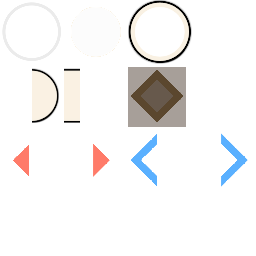
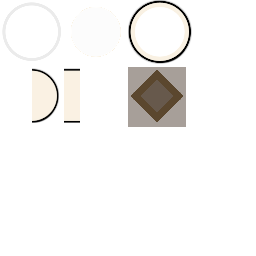
better performance monitoring (like, it's actually accurate this time lol) also change how taiko's left part's colored elements are render

diff --git a/src/Platform/Psp/FrameTimesInfo.cpp b/src/Platform/Psp/FrameTimesInfo.cpp
@@ -1,0 +1,84 @@
+#include "FrameTimesInfo.h"
+
+#include <pspgum.h>
+
+#include "Graphics/Vertex.h"
+
+
+//note: 1ms is 1000 ticks
+void DrawFrameTimesInfo(const FrameTimesInfo &frame_times_info, Vector2<float> pos, float z, float width) {
+    constexpr u64 optimal_fps_ticks = (u64)(1.f/60.f * 1000000.f);
+
+    u64 update_end_time =   frame_times_info.frame_start_draw      - frame_times_info.frame_start;
+    u64 draw_end_time =     frame_times_info.frame_end_draw        - frame_times_info.frame_start;
+    u64 gpu_exec_end_time = frame_times_info.frame_end_gpu_execute - frame_times_info.frame_start;
+    u64 frame_end_time =    frame_times_info.frame_end             - frame_times_info.frame_start;
+
+    u64 u64width = (u64)width;
+    float update_end_relative_x   = (float)(update_end_time*u64width   / optimal_fps_ticks);
+    float draw_end_relative_x     = (float)(draw_end_time*u64width     / optimal_fps_ticks);
+    float gpu_exec_end_relative_x = (float)(gpu_exec_end_time*u64width / optimal_fps_ticks);
+    float frame_end_relative_x    = (float)(frame_end_time*u64width    / optimal_fps_ticks);
+
+
+    Vertex_Color32_XYZ32 *overlay_vertices = (Vertex_Color32_XYZ32 *) sceGuGetMemory(sizeof(Vertex_Color32_XYZ32) * 4 * 4);
+    uint8_t *overlay_indices = (uint8_t *) sceGuGetMemory(sizeof(Vertex_Color32_XYZ32) * 6 * 4);
+
+    //waiting for vsync
+    Vertex_Color32_XYZ32 *wait_rect = (Vertex_Color32_XYZ32 *) sceGuGetMemory(sizeof(Vertex_Color32_XYZ32) * 4);
+    uint8_t *wait_rect_indices = (uint8_t *) sceGuGetMemory(sizeof(uint8_t) * 6);
+    overlay_vertices[0] = {0xFFFF4444, pos.x                     , pos.y     , z}; //top left
+    overlay_vertices[1] = {0xFFFF4444, pos.x+frame_end_relative_x, pos.y     , z}; //top right
+    overlay_vertices[2] = {0xFFFF4444, pos.x                     , pos.y+4, z}; //bottom left
+    overlay_vertices[3] = {0xFFFF4444, pos.x+frame_end_relative_x, pos.y+4, z}; //bottom right
+    overlay_indices[0] = 0;
+    overlay_indices[1] = 1;
+    overlay_indices[2] = 2;
+    overlay_indices[3] = 1;
+    overlay_indices[4] = 3;
+    overlay_indices[5] = 2;
+
+    //gpu execution (orange)
+    overlay_vertices[4] = {0xFF42c2f5, pos.x                        , pos.y     , z}; //top left
+    overlay_vertices[5] = {0xFF42c2f5, pos.x+gpu_exec_end_relative_x, pos.y     , z}; //top right
+    overlay_vertices[6] = {0xFF42c2f5, pos.x                        , pos.y+4, z}; //bottom left
+    overlay_vertices[7] = {0xFF42c2f5, pos.x+gpu_exec_end_relative_x, pos.y+4, z}; //bottom right
+    overlay_indices[6] = 4;
+    overlay_indices[7] = 5;
+    overlay_indices[8] = 6;
+    overlay_indices[9] = 5;
+    overlay_indices[10] = 7;
+    overlay_indices[11] = 6;
+
+    //draw (red)
+    overlay_vertices[8]  = {0xFF4444FF, pos.x                    , pos.y     , z}; //top left
+    overlay_vertices[9]  = {0xFF4444FF, pos.x+draw_end_relative_x, pos.y     , z}; //top right
+    overlay_vertices[10] = {0xFF4444FF, pos.x                    , pos.y+4, z}; //bottom left
+    overlay_vertices[11] = {0xFF4444FF, pos.x+draw_end_relative_x, pos.y+4, z}; //bottom right
+    overlay_indices[12] = 8;
+    overlay_indices[13] = 9;
+    overlay_indices[14] = 10;
+    overlay_indices[15] = 9;
+    overlay_indices[16] = 11;
+    overlay_indices[17] = 10;
+
+    //update (green)
+    overlay_vertices[12] = {0xFF44FF44, pos.x                      , pos.y     , z}; //top left
+    overlay_vertices[13] = {0xFF44FF44, pos.x+update_end_relative_x, pos.y     , z}; //top right
+    overlay_vertices[14] = {0xFF44FF44, pos.x                      , pos.y+4, z}; //bottom left
+    overlay_vertices[15] = {0xFF44FF44, pos.x+update_end_relative_x, pos.y+4, z}; //bottom right
+    overlay_indices[18] = 12;
+    overlay_indices[19] = 13;
+    overlay_indices[20] = 14;
+    overlay_indices[21] = 13;
+    overlay_indices[22] = 15;
+
+    overlay_indices[23] = 14;
+    sceGumDrawArray(GU_TRIANGLES, Vertex_Color32_XYZ32::flags | GU_INDEX_8BIT | GU_TRANSFORM_3D, 6*4, overlay_indices, overlay_vertices);
+
+    //red line
+    Vertex_Color32_XYZ32 *limit_vertices = (Vertex_Color32_XYZ32 *) sceGuGetMemory(sizeof(Vertex_Color32_XYZ32) * 2);
+    limit_vertices[0] = {0xFF0000FF, pos.x + width, pos.y-2, z};
+    limit_vertices[1] = {0xFF0000FF, pos.x + width, pos.y+6, z};
+    sceGumDrawArray(GU_LINES, Vertex_Color32_XYZ32::flags | GU_TRANSFORM_3D, 2, nullptr, limit_vertices);
+}

diff --git a/src/Ruleset/TaikoRuleset/TaikoRulesetPsp.cpp b/src/Ruleset/TaikoRuleset/TaikoRulesetPsp.cpp
@@ -15,6 +15,9 @@
 #include "../../Platform/Psp/Graphics/Texture.h"
 #include "../../Platform/Psp/Graphics/Vertex.h"
 
+//uncomment this to convert the taiko skin to ABGR4444
+//#define TAIKO_SHEET_ABGR4444
+
 #define PLAYFIELD_WIDTH SCREEN_WIDTH
 #define PLAYFIELD_HEIGHT 64.f
 #define PLAYFIELD_ORIGIN_Y ((SCREEN_HEIGHT - PLAYFIELD_HEIGHT)/2.f)
@@ -30,6 +33,12 @@ static RulesetInput s_taiko_inputs_psp[] = {
 };
 static const int s_taiko_input_count = sizeof(s_taiko_inputs_psp) / sizeof(RulesetInput);
 
+static uint32_t s_taiko_colors_psp[] = {
+    0xFF374FFF, //center (red) ff4f37
+    0xFFFF9523, //side (blue) 2395ff
+};
+
+
 TaikoRulesetPsp::TaikoRulesetPsp() : TaikoRuleset(s_taiko_inputs_psp, s_taiko_input_count), m_taiko_sheet(nullptr), m_keys_opacity{}, m_audio(nullptr) {
 }
 
@@ -43,8 +52,19 @@ TaikoRulesetPsp::~TaikoRulesetPsp() {
 bool TaikoRulesetPsp::LoadResourcesInternal() {
     if (!TaikoRuleset::LoadResourcesInternal()) return false;
 
-    m_taiko_sheet = Texture::Load("res/skin/Taiko/sheet.png");
-    if (m_taiko_sheet == nullptr) return false;
+    Texture *taiko_sheet_abgr8888 = Texture::Load("res/skin/Taiko/sheet.png");
+    if (taiko_sheet_abgr8888 == nullptr) return false;
+
+#ifdef TAIKO_SHEET_ABGR4444
+    Texture *taiko_sheet_abgr4444 = taiko_sheet_abgr8888->CopyAndConvert(GU_PSM_4444);
+    if (taiko_sheet_abgr4444 == nullptr) m_taiko_sheet = taiko_sheet_abgr8888; //failed to convert, fall back to ABGR8888
+    else {
+        delete taiko_sheet_abgr8888;
+        m_taiko_sheet = taiko_sheet_abgr4444;
+    }
+#else
+    m_taiko_sheet = taiko_sheet_abgr8888;
+#endif
     m_taiko_sheet->Swizzle();
     m_taiko_sheet->minimizing_filter = GU_LINEAR;
     m_taiko_sheet->magnifying_filter = GU_LINEAR;
@@ -165,7 +185,8 @@ void TaikoRulesetPsp::DrawLeftPart() {
         key_display_indices[5] = 2;
 
         uint8_t alpha = (uint8_t)(255.f*m_keys_opacity[i]);
-        sceGuColor(alpha<<24 | 0xFFFFFF);
+        uint32_t color = ((i < 2) ? s_taiko_colors_psp[0] : s_taiko_colors_psp[1]) & 0xFFFFFF;
+        sceGuColor(alpha<<24 | color);
         sceGumDrawArray(GU_TRIANGLES, Vertex_UV32_XYZ32::flags | GU_INDEX_8BIT | GU_TRANSFORM_3D, 6, key_display_indices, key_display_vertices);
     }
 
@@ -310,7 +331,7 @@ bool TaikoRulesetPsp::GetHitVertices(int current_time, TaikoHit *taiko_hit, Vert
     if (normalized_position >= 1.f) return false;
 
     float size = taiko_hit->IsStrong() ? 60.f : 45.f;
-    uint32_t color = taiko_hit->IsBlue() ? 0xFFFF0000 : 0xFF0000FF;
+    uint32_t color = taiko_hit->IsBlue() ? s_taiko_colors_psp[1] : s_taiko_colors_psp[0];
 
     //x and y position of the top left of the hit
     float x = RECEPTOR_CENTER_X + normalized_position*OBJECT_TRAVEL_DISTANCE - size/2.f;

diff --git a/src/main_Psp.cpp b/src/main_Psp.cpp
@@ -32,42 +32,26 @@ int main(int argc, const char *argv[]) {
     //NOTE: this assumes that the map file exists
     SceneManager *scene_manager = new SceneManager(BeatmapLoader::LoadFromFile<BeatmapPlayerPsp>("res/maps/circles/KIRA - Circles (feat. GUMI) (Amasugi) [Melancholy].osu"));
 
-    u64 tick_postdraw_previous = 0;
-    u64 tick_preinput = 0;
-    u64 tick_preupdate = 0;
-    u64 tick_predraw = 0;
-    u64 tick_postdraw = 0;
     std::queue<InputEvent> input_queue;
     while (ShouldClose()) {
-        tick_postdraw_previous = tick_postdraw;
-
-        sceRtcGetCurrentTick(&tick_preinput);
-
         PollInputEvents(input_queue);
         while (!input_queue.empty()) {
             scene_manager->HandleInput(input_queue.front());
             input_queue.pop();
         }
 
-        sceRtcGetCurrentTick(&tick_preupdate);
         scene_manager->Update(GetDeltaTime());
 
-        sceRtcGetCurrentTick(&tick_predraw);
         StartFrame();
 
         clearBackground(0xFF000000);
 
         scene_manager->Draw();
-        sceRtcGetCurrentTick(&tick_postdraw);
 
-        char fps_buf[70];
-        snprintf(fps_buf, sizeof(fps_buf), "FPS %.0f\nW %llu\nI %llu\nU %llu\nD %llu",
-            GetFPS(),
-            tick_preinput-tick_postdraw_previous, //wait time
-            tick_preupdate-tick_preinput, //input time
-            tick_predraw-tick_preupdate, //update time
-            tick_postdraw-tick_predraw); //draw time
+        char fps_buf[32];
+        snprintf(fps_buf, sizeof(fps_buf), "FPS %.0f", GetFPS()); //draw time
         DrawText(fps_buf, g_default_font, {SCREEN_WIDTH-80, 2.f}, 0.f, 1, 0xFF00AA00);
+        DrawFrameTimesInfo(GetPreviousFrameTimesInfo(), {2.f, 2.f}, 0.f, 200.f);
         //SetLastFrameTimeToNow();
         EndFrame();
     }

diff --git a/src/Platform/Psp/Core.cpp b/src/Platform/Psp/Core.cpp
@@ -10,6 +10,7 @@
 #include <psprtc.h>
 #include <pspthreadman.h>
 
+#include "FrameTimesInfo.h"
 #include "Audio/AudioThread.h"
 #include "Graphics/2d.h"
 #include "Graphics/Font.h"
@@ -17,6 +18,8 @@
 //We want to update the FPS counter every .1 second (100k ticks)
 #define FPS_UPDATE_INTERVAL 100000
 #define FPS_MULTIPLIER (1000000.f/FPS_UPDATE_INTERVAL)
+
+static FrameTimesInfo s_completed_frame_info, s_ongoing_frame_info;
 
 static u64 s_last_tick = 0; //store when was the last time the fps counter was updated
 static int s_frame_count = 0; //store the number of frames that occurred since s_last_tick
@@ -124,8 +127,11 @@ void InitCore(int draw_buffer_psm) {
 
 int ShouldClose() {
     if (s_running) {
+        s_completed_frame_info = s_ongoing_frame_info;
+
         UpdateTime();
         //UpdateInputState();
+        sceRtcGetCurrentTick(&s_ongoing_frame_info.frame_start);
     }
     return s_running;
 }
@@ -142,13 +148,21 @@ void EndCore() {
 
 void StartFrame() {
     sceGuStart(GU_DIRECT, list);
+    sceRtcGetCurrentTick(&s_ongoing_frame_info.frame_start_draw);
 }
 
 void EndFrame() {
+    sceRtcGetCurrentTick(&s_ongoing_frame_info.frame_end_draw);
+
     sceGuFinish();
     sceGuSync(0, 0);
+
+    sceRtcGetCurrentTick(&s_ongoing_frame_info.frame_end_gpu_execute);
+
     sceDisplayWaitVblankStart();
     sceGuSwapBuffers();
+
+    sceRtcGetCurrentTick(&s_ongoing_frame_info.frame_end);
 }
 
 void UpdateTime() {
@@ -174,3 +188,7 @@ void UpdateTime() {
 
 float GetFPS() { return s_fps; }
 float GetDeltaTime() { return s_dt; }
+
+FrameTimesInfo GetPreviousFrameTimesInfo() {
+    return s_completed_frame_info;
+}

diff --git a/src/Platform/Psp/FrameTimesInfo.h b/src/Platform/Psp/FrameTimesInfo.h
@@ -1,0 +1,19 @@
+#ifndef TAIKO_TEST_FRAMETIMESINFO_H
+#define TAIKO_TEST_FRAMETIMESINFO_H
+
+#include <psptypes.h>
+
+#include "Vector2.h"
+
+//Mostly intended for performance monitoring
+struct FrameTimesInfo {
+    u64 frame_start; //contains the tick of the start of the fram
+    u64 frame_start_draw; //contains the tick at which we finished updating stuff and start sendinc commands to the gpu
+    u64 frame_end_draw; //contains the tick at which we finished sending commands to the gpu
+    u64 frame_end_gpu_execute; //contains the tick at which the gpu finished renderring
+    u64 frame_end; //contains the tick at which the draw and display buffer have been fully swapped (end of frame)
+};
+
+void DrawFrameTimesInfo(const FrameTimesInfo &frame_times_info ,Vector2<float> pos, float z, float width);
+
+#endif //TAIKO_TEST_FRAMETIMESINFO_H

diff --git a/src/BeatmapPlayer/BeatmapPlayerPsp.cpp b/src/BeatmapPlayer/BeatmapPlayerPsp.cpp
@@ -43,7 +43,7 @@ void BeatmapPlayerPsp::Draw() {
     int rating_count = m_ruleset->GetRatingCount();
 
     //draw judgements at the top
-    int y = 2;
+    int y = 6;
     for (int i = 0; i < rating_count; i++) {
         snprintf(buf, 256, "%s \x1\xff\xff\xff%d", ratings[i].name, m_judgements[i]);
         DrawText(buf, g_default_font, {2.f, (float)y}, 0.f, 1.f, ratings[i].color);
@@ -81,6 +81,7 @@ void BeatmapPlayerPsp::Draw() {
 static constexpr int background_width = SCREEN_WIDTH;
 static constexpr int background_height = SCREEN_HEIGHT;
 
+//TODO: move most of this logic in a function, and make it possible to specify any path
 void BeatmapPlayerPsp::LoadBackground() {
     if ( m_beatmap == nullptr) return;
     if (m_beatmap->GetBackground() == nullptr) return; //no background

diff --git a/src/Platform/Psp/Graphics/Vertex.h b/src/Platform/Psp/Graphics/Vertex.h
@@ -10,6 +10,12 @@
 // Normal
 // Position
 
+typedef struct Vertex_XYZ32 {
+    float x, y, z;
+
+    static constexpr int flags = GU_VERTEX_32BITF;
+} Vertex_XYZ32;
+
 typedef struct Vertex_Color32_XYZ32 {
     unsigned int color; //requires 'sceGuShadeModel(GU_SMOOTH);' in init, expect GU_COLOR_8888 in sceGumDrawArray
     float x, y, z; //Expect GU_VERTEX_32BITF in sceGumDrawArray

diff --git a/src/Platform/Psp/Core.h b/src/Platform/Psp/Core.h
@@ -6,8 +6,9 @@
 #define SCREEN_WIDTH 480
 #define SCREEN_HEIGHT BUFFER_HEIGHT
 
-struct Font;
+#include "FrameTimesInfo.h"
 
+struct Font;
 extern Font *g_default_font;
 
 void InitCore(int draw_buffer_psm);
@@ -21,5 +22,7 @@ void EndFrame();
 void UpdateTime();
 float GetFPS();
 float GetDeltaTime();
+
+FrameTimesInfo GetPreviousFrameTimesInfo();
 
 #endif //CORE_H
